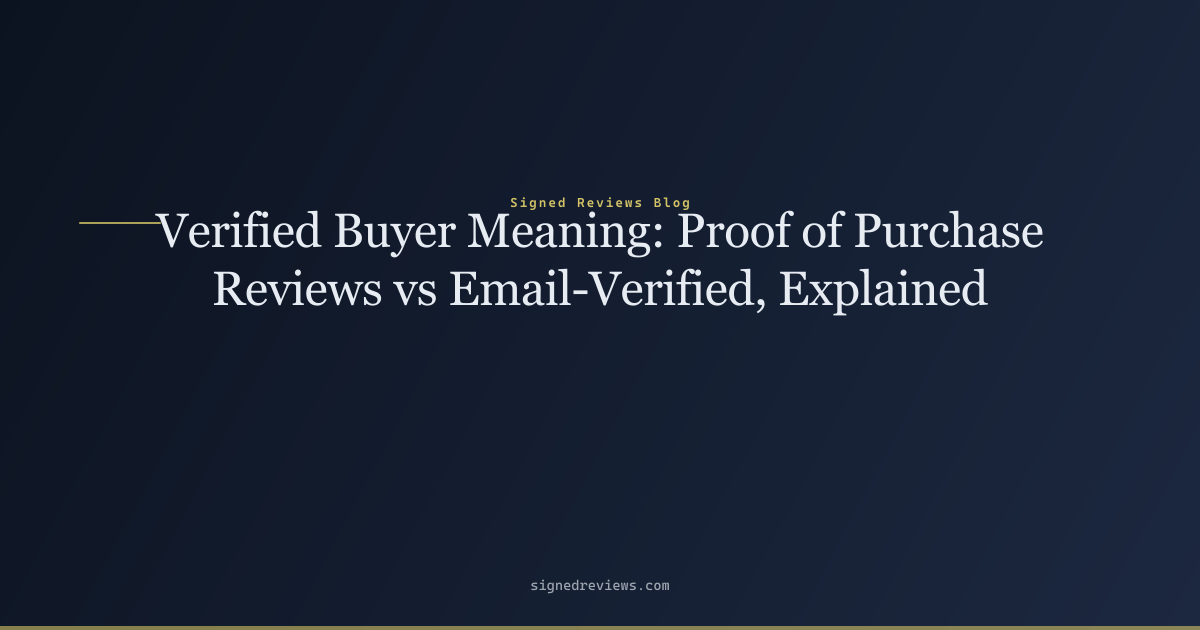
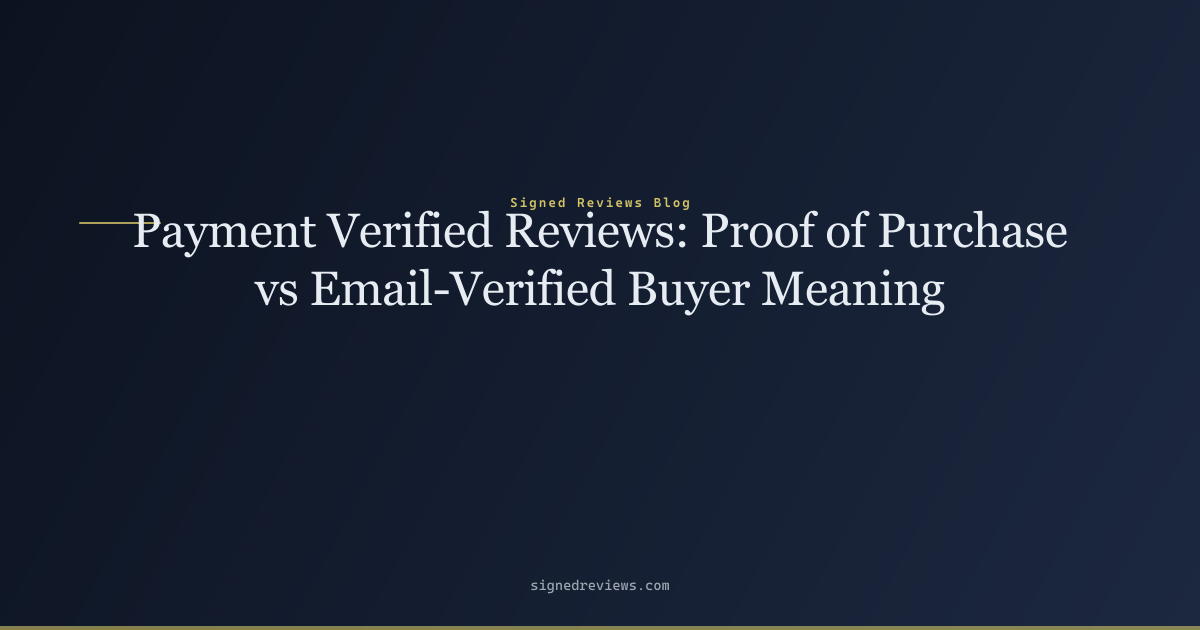
@ SEO: target "payment verified reviews" in title, H2, body, and internal links
- Title: "Payment Verified Reviews: Proof of Purchase vs Email-Verified Buyer Meaning"
- Meta description: leads with "What are payment verified reviews?" (keyword 2x)
- H2: "Payment verified reviews (processor-attested proof of purchase)"
- New H3: "What are payment verified reviews?" with definition + internal links
- Body: keyword in intro (2x), definition section, and bottom line
- Internal links: /blog/transaction-verified-reviews/ + /blog/stripe-verified-reviews/

@

Changed region(s): [[0.0925, 0.3317, 0.8942, 0.5127]]

diff --git a/blog/purchase-verified-vs-email-verified-reviews/index.html b/blog/purchase-verified-vs-email-verified-reviews/index.html
@@ -3,21 +3,21 @@
 <head>
   <meta charset="UTF-8">
   <meta name="viewport" content="width=device-width, initial-scale=1.0">
-  <title>Verified Buyer Meaning: Proof of Purchase Reviews vs Email-Verified, Explained — Signed Reviews Blog</title>
-  <meta name="description" content="What does verified buyer actually mean? Learn the real verified buyer meaning — from email-verified to processor-attested proof of purchase reviews — and how to">
+  <title>Payment Verified Reviews: Proof of Purchase vs Email-Verified Buyer Meaning — Signed Reviews Blog</title>
+  <meta name="description" content="What are payment verified reviews? Learn how processor-attested proof of purchase reviews work, how they differ from email-verified badges, and why payment veri">
   <link rel="canonical" href="https://signedreviews.com/blog/purchase-verified-vs-email-verified-reviews/">
   <meta name="robots" content="index, follow">
   <meta name="theme-color" content="#0c1320">
 
   <meta property="og:type" content="article">
-  <meta property="og:title" content="Verified Buyer Meaning: Proof of Purchase Reviews vs Email-Verified, Explained — Signed Reviews Blog">
-  <meta property="og:description" content="What does verified buyer actually mean? Learn the real verified buyer meaning — from email-verified to processor-attested proof of purchase reviews — and how to">
+  <meta property="og:title" content="Payment Verified Reviews: Proof of Purchase vs Email-Verified Buyer Meaning — Signed Reviews Blog">
+  <meta property="og:description" content="What are payment verified reviews? Learn how processor-attested proof of purchase reviews work, how they differ from email-verified badges, and why payment veri">
   <meta property="og:url" content="https://signedreviews.com/blog/purchase-verified-vs-email-verified-reviews/">
   <meta property="og:site_name" content="Signed Reviews">
   <meta property="og:image" content="https://signedreviews.com/images/og/purchase-verified-vs-email-verified-reviews.png">
   <meta name="twitter:card" content="summary_large_image">
-  <meta name="twitter:title" content="Verified Buyer Meaning: Proof of Purchase Reviews vs Email-Verified, Explained — Signed Reviews Blog">
-  <meta name="twitter:description" content="What does verified buyer actually mean? Learn the real verified buyer meaning — from email-verified to processor-attested proof of purchase reviews — and how to">
+  <meta name="twitter:title" content="Payment Verified Reviews: Proof of Purchase vs Email-Verified Buyer Meaning — Signed Reviews Blog">
+  <meta name="twitter:description" content="What are payment verified reviews? Learn how processor-attested proof of purchase reviews work, how they differ from email-verified badges, and why payment veri">
   <meta name="twitter:image" content="https://signedreviews.com/images/og/purchase-verified-vs-email-verified-reviews.png">
 
   <link rel="icon" type="image/png" sizes="32x32" href="/images/SignedReviews_logo_only.png?v=20260729a">
@@ -523,9 +523,9 @@ main { padding: 0; }
     })();
   </script>
   <script type="application/ld+json">{"@context":"https://schema.org","@type":"Organization","name":"Signed Reviews","legalName":"Paid Rightly LLC","url":"https://signedreviews.com","logo":"https://signedreviews.com/images/SignedReviews_logo_only.png","description":"Signed Reviews is a SaaS platform that helps businesses collect verified, tamper-evident customer reviews by linking each review to a completed Stripe transaction.","email":"support@signedreviews.com","address":{"@type":"PostalAddress","streetAddress":"1209 Mountain Road Pl NE, Ste N","addressLocality":"Albuquerque","addressRegion":"NM","postalCode":"87110","addressCountry":"US"}}</script>
-  <script type="application/ld+json">{"@context":"https://schema.org","@type":"BreadcrumbList","itemListElement":[{"@type":"ListItem","position":1,"name":"Home","item":"https://signedreviews.com/"},{"@type":"ListItem","position":2,"name":"Blog","item":"https://signedreviews.com/blog/"},{"@type":"ListItem","position":3,"name":"Verified Buyer Meaning: Proof of Purchase Reviews vs Email-Verified, Explained","item":"https://signedreviews.com/blog/purchase-verified-vs-email-verified-reviews/"}]}</script>
+  <script type="application/ld+json">{"@context":"https://schema.org","@type":"BreadcrumbList","itemListElement":[{"@type":"ListItem","position":1,"name":"Home","item":"https://signedreviews.com/"},{"@type":"ListItem","position":2,"name":"Blog","item":"https://signedreviews.com/blog/"},{"@type":"ListItem","position":3,"name":"Payment Verified Reviews: Proof of Purchase vs Email-Verified Buyer Meaning","item":"https://signedreviews.com/blog/purchase-verified-vs-email-verified-reviews/"}]}</script>
 
-  <script type="application/ld+json">{"@context":"https://schema.org","@type":"BlogPosting","headline":"Verified Buyer Meaning: Proof of Purchase Reviews vs Email-Verified, Explained","description":"What does verified buyer actually mean? Learn the real verified buyer meaning — from email-verified to processor-attested proof of purchase reviews — and how to","datePublished":"2026-07-24","dateModified":"2026-07-24","mainEntityOfPage":{"@type":"WebPage","@id":"https://signedreviews.com/blog/purchase-verified-vs-email-verified-reviews/"},"image":["https://signedreviews.com/images/og/purchase-verified-vs-email-verified-reviews.png"],"author":{"@type":"Organization","name":"Signed Reviews","url":"https://signedreviews.com"},"publisher":{"@type":"Organization","name":"Signed Reviews","logo":{"@type":"ImageObject","url":"https://signedreviews.com/images/SignedReviews_logo_only.png"}}}</script>
+  <script type="application/ld+json">{"@context":"https://schema.org","@type":"BlogPosting","headline":"Payment Verified Reviews: Proof of Purchase vs Email-Verified Buyer Meaning","description":"What are payment verified reviews? Learn how processor-attested proof of purchase reviews work, how they differ from email-verified badges, and why payment veri","datePublished":"2026-07-24","dateModified":"2026-07-24","mainEntityOfPage":{"@type":"WebPage","@id":"https://signedreviews.com/blog/purchase-verified-vs-email-verified-reviews/"},"image":["https://signedreviews.com/images/og/purchase-verified-vs-email-verified-reviews.png"],"author":{"@type":"Organization","name":"Signed Reviews","url":"https://signedreviews.com"},"publisher":{"@type":"Organization","name":"Signed Reviews","logo":{"@type":"ImageObject","url":"https://signedreviews.com/images/SignedReviews_logo_only.png"}}}</script>
 </head>
 <body>
   <a class="skip-link" href="#main">Skip to main content</a>
@@ -566,18 +566,18 @@ main { padding: 0; }
     <section class="page-hero">
       <div class="page-hero-inner">
         <span class="eyebrow">Blog</span>
-        <h1>Verified Buyer Meaning: Proof of Purchase Reviews vs Email-Verified, Explained</h1>
-        <p>What does verified buyer actually mean? Learn the real verified buyer meaning — from email-verified to processor-attested proof of purchase reviews — and how to</p>
+        <h1>Payment Verified Reviews: Proof of Purchase vs Email-Verified Buyer Meaning</h1>
+        <p>What are payment verified reviews? Learn how processor-attested proof of purchase reviews work, how they differ from email-verified badges, and why payment veri</p>
       </div>
     </section>
     <div class="prose-wrap">
       <article class="prose" style="max-width: var(--max-prose)">
       <p class="post-meta" style="color:var(--muted);font-size:.9rem;margin-bottom:1.5rem;">2026-07-24</p>
       
-<p><strong>Published:</strong> 2026-07-24 · <strong>Author:</strong> Signed Reviews Team · <strong>Description:</strong> What does verified buyer actually mean? Learn the real verified buyer meaning — from email-verified to processor-attested proof of purchase reviews — and how to tell which kind you&#39;re reading.</p>
+<p><strong>Published:</strong> 2026-07-24 · <strong>Author:</strong> Signed Reviews Team · <strong>Description:</strong> What are payment verified reviews? Learn how processor-attested proof of purchase reviews work, how they differ from email-verified badges, and why payment verified reviews stop fake feedback.</p>
 <hr>
-<p>Two reviews. Both say &quot;Verified.&quot; But the verified buyer meaning changes completely depending on who did the verifying. One badge means the platform confirmed the reviewer&#39;s email address exists. The other means an independent payment processor confirmed the reviewer actually paid for the product — these are <strong>proof of purchase reviews</strong>, and they&#39;re structurally impossible to fake. They&#39;re not the same thing — but most review platforms use language that deliberately blurs the distinction.</p>
-<p>Here&#39;s the real verified buyer meaning across every platform — why proof of purchase reviews are structurally harder to fake than email-verified ones, and how to tell which kind you&#39;re reading.</p>
+<p>Two reviews. Both say &quot;Verified.&quot; But the verified buyer meaning changes completely depending on who did the verifying. One badge means the platform confirmed the reviewer&#39;s email address exists. The other means an independent payment processor confirmed the reviewer actually paid for the product — these are <strong>payment verified reviews</strong>, and they&#39;re structurally impossible to fake. They&#39;re not the same thing — but most review platforms use language that deliberately blurs the distinction.</p>
+<p>Here&#39;s the real verified buyer meaning across every platform — why <strong>payment verified reviews</strong> are structurally harder to fake than email-verified ones, and how to tell which kind you&#39;re reading.</p>
 <hr>
 <h2 id="email-verified-reviews"><a class="anchor" href="#email-verified-reviews" aria-label="Permalink to Email-verified reviews">#</a> Email-verified reviews</h2>
 <p><strong>What it checks:</strong> The reviewer controls the email address they used to sign up.</p>
@@ -591,9 +591,11 @@ main { padding: 0; }
 <p><strong>Where you see it:</strong> Lower-friction platforms, some &quot;verified purchase&quot; tick-boxes that are self-attested, and platforms that don&#39;t integrate with commerce data at all.</p>
 <p><strong>The gap:</strong> Email verification proves the reviewer exists as an email address. It proves nothing about whether they were a customer. Anyone can create a Gmail account in 30 seconds, and email verification alone treats that account as equal to a long-time customer who spent $5,000.</p>
 <hr>
-<h2 id="proof-of-purchase-reviews-processor-attested-verification"><a class="anchor" href="#proof-of-purchase-reviews-processor-attested-verification" aria-label="Permalink to Proof of purchase reviews (processor-attested verification)">#</a> Proof of purchase reviews (processor-attested verification)</h2>
+<h2 id="payment-verified-reviews-processor-attested-proof-of-purchase"><a class="anchor" href="#payment-verified-reviews-processor-attested-proof-of-purchase" aria-label="Permalink to Payment verified reviews (processor-attested proof of purchase)">#</a> Payment verified reviews (processor-attested proof of purchase)</h2>
 <p><strong>What it checks:</strong> That a purchase actually occurred — but <strong>who confirms it</strong> is the critical variable.</p>
 <p>There are two kinds of purchase verification, and they sit at completely different levels on the verification spectrum:</p>
+<h3 id="what-are-payment-verified-reviews"><a class="anchor" href="#what-are-payment-verified-reviews" aria-label="Permalink to What are payment verified reviews?">#</a> What are payment verified reviews?</h3>
+<p>Payment verified reviews are reviews tied to an independently confirmed payment — a real Stripe charge, verified by the payment processor itself rather than by the merchant&#39;s own order records. Unlike email-verified badges (which only confirm an email address exists) or merchant-supplied verification (which trusts data the business controls), payment verified reviews use the payment processor as a neutral third-party attestation source. This makes them structurally impossible to fake without incurring real Stripe fees and account-closure risk. For a complete technical breakdown, see our guide on <a href="/blog/transaction-verified-reviews/">transaction-verified reviews</a> and how <a href="/blog/stripe-verified-reviews/">Stripe verified reviews</a> make this possible.</p>
 <h3 id="level-3-merchant-supplied-purchase-verification"><a class="anchor" href="#level-3-merchant-supplied-purchase-verification" aria-label="Permalink to Level 3: Merchant-supplied purchase verification">#</a> Level 3: Merchant-supplied purchase verification</h3>
 <p>The review platform checks the reviewer against <strong>the merchant&#39;s own order or customer records.</strong> This is what most &quot;Verified Buyer&quot; badges mean — on Yotpo, Judge.me, Reviews.io, and almost every Shopify review app.</p>
 <p><strong>How it works:</strong></p>
@@ -669,7 +671,7 @@ main { padding: 0; }
 </ol>
 <hr>
 <h2 id="the-bottom-line"><a class="anchor" href="#the-bottom-line" aria-label="Permalink to The bottom line">#</a> The bottom line</h2>
-<p>&quot;Verified&quot; is a magic word in e-commerce — it increases trust, improves conversion, and signals credibility. But the verified buyer meaning is doing too much work. It can mean &quot;has an email address,&quot; &quot;matched a merchant&#39;s order record,&quot; or &quot;independently confirmed by a payment processor.&quot; Proof of purchase reviews sit at the top of this hierarchy — and consumers can&#39;t easily tell which kind they&#39;re looking at.</p>
+<p>&quot;Verified&quot; is a magic word in e-commerce — it increases trust, improves conversion, and signals credibility. But the verified buyer meaning is doing too much work. It can mean &quot;has an email address,&quot; &quot;matched a merchant&#39;s order record,&quot; or &quot;independently confirmed by a payment processor.&quot; <strong>Payment verified reviews</strong> sit at the top of this hierarchy — backed by processor-attested proof of purchase — and consumers can&#39;t easily tell which kind they&#39;re looking at.</p>
 <p>As a business, the verification level you choose is a strategic decision about what kind of trust you want to build with your customers. Email-verified says &quot;we made it slightly harder to spam.&quot; Purchase-verified (merchant-supplied) says &quot;we checked our own records.&quot; Processor-attested says <strong>&quot;an independent party verified this — and we can&#39;t fake it.&quot;</strong></p>
 <p>The right choice depends on your business. But if you process payments through Stripe, you have access to the strongest verification level available — and your competitors probably aren&#39;t using it yet.</p>
 <p><strong>Further reading:</strong></p>

diff --git a/blog/index.html b/blog/index.html
@@ -623,9 +623,9 @@ main { padding: 0; }
       <p style="margin:0;color:var(--text);font-size:.95rem;">Looking for a review app for stripe payments? Compare Stripe-native apps, platform integrations, and API-first tools — ranked by verification strength. Covers t</p>
     </div>
     <div style="margin-bottom:1.5rem;padding-bottom:1.5rem;border-bottom:1px solid var(--border);">
-      <h2 style="margin:0 0 .3rem;font-size:1.25rem;"><a href="/blog/purchase-verified-vs-email-verified-reviews/" style="text-decoration:none;">Verified Buyer Meaning: Proof of Purchase Reviews vs Email-Verified, Explained</a></h2>
+      <h2 style="margin:0 0 .3rem;font-size:1.25rem;"><a href="/blog/purchase-verified-vs-email-verified-reviews/" style="text-decoration:none;">Payment Verified Reviews: Proof of Purchase vs Email-Verified Buyer Meaning</a></h2>
       <p class="post-meta" style="color:var(--muted);font-size:.85rem;margin:0 0 .4rem;">2026-07-24</p>
-      <p style="margin:0;color:var(--text);font-size:.95rem;">What does verified buyer actually mean? Learn the real verified buyer meaning — from email-verified to processor-attested proof of purchase reviews — and how to</p>
+      <p style="margin:0;color:var(--text);font-size:.95rem;">What are payment verified reviews? Learn how processor-attested proof of purchase reviews work, how they differ from email-verified badges, and why payment veri</p>
     </div>
     <div style="margin-bottom:1.5rem;padding-bottom:1.5rem;border-bottom:1px solid var(--border);">
       <h2 style="margin:0 0 .3rem;font-size:1.25rem;"><a href="/blog/post-purchase-review-email-templates/" style="text-decoration:none;">Post Purchase Review Email Template Guide: 5 Templates That Actually Work</a></h2>

diff --git a/files/blog/purchase-verified-vs-email-verified-reviews.md b/files/blog/purchase-verified-vs-email-verified-reviews.md
@@ -1,12 +1,12 @@
-# Verified Buyer Meaning: Proof of Purchase Reviews vs Email-Verified, Explained
+# Payment Verified Reviews: Proof of Purchase vs Email-Verified Buyer Meaning
 
-**Published:** 2026-07-24 · **Author:** Signed Reviews Team · **Description:** What does verified buyer actually mean? Learn the real verified buyer meaning — from email-verified to processor-attested proof of purchase reviews — and how to tell which kind you're reading.
+**Published:** 2026-07-24 · **Author:** Signed Reviews Team · **Description:** What are payment verified reviews? Learn how processor-attested proof of purchase reviews work, how they differ from email-verified badges, and why payment verified reviews stop fake feedback.
 
 ---
 
-Two reviews. Both say "Verified." But the verified buyer meaning changes completely depending on who did the verifying. One badge means the platform confirmed the reviewer's email address exists. The other means an independent payment processor confirmed the reviewer actually paid for the product — these are **proof of purchase reviews**, and they're structurally impossible to fake. They're not the same thing — but most review platforms use language that deliberately blurs the distinction.
+Two reviews. Both say "Verified." But the verified buyer meaning changes completely depending on who did the verifying. One badge means the platform confirmed the reviewer's email address exists. The other means an independent payment processor confirmed the reviewer actually paid for the product — these are **payment verified reviews**, and they're structurally impossible to fake. They're not the same thing — but most review platforms use language that deliberately blurs the distinction.
 
-Here's the real verified buyer meaning across every platform — why proof of purchase reviews are structurally harder to fake than email-verified ones, and how to tell which kind you're reading.
+Here's the real verified buyer meaning across every platform — why **payment verified reviews** are structurally harder to fake than email-verified ones, and how to tell which kind you're reading.
 
 ---
 
@@ -27,11 +27,15 @@ Here's the real verified buyer meaning across every platform — why proof of pu
 
 ---
 
-## Proof of purchase reviews (processor-attested verification)
+## Payment verified reviews (processor-attested proof of purchase)
 
 **What it checks:** That a purchase actually occurred — but **who confirms it** is the critical variable.
 
 There are two kinds of purchase verification, and they sit at completely different levels on the verification spectrum:
+
+### What are payment verified reviews?
+
+Payment verified reviews are reviews tied to an independently confirmed payment — a real Stripe charge, verified by the payment processor itself rather than by the merchant's own order records. Unlike email-verified badges (which only confirm an email address exists) or merchant-supplied verification (which trusts data the business controls), payment verified reviews use the payment processor as a neutral third-party attestation source. This makes them structurally impossible to fake without incurring real Stripe fees and account-closure risk. For a complete technical breakdown, see our guide on [transaction-verified reviews](/blog/transaction-verified-reviews/) and how [Stripe verified reviews](/blog/stripe-verified-reviews/) make this possible.
 
 ### Level 3: Merchant-supplied purchase verification
 
@@ -95,7 +99,7 @@ When you see a "Verified" badge on a review, ask three questions:
 
 ## The bottom line
 
-"Verified" is a magic word in e-commerce — it increases trust, improves conversion, and signals credibility. But the verified buyer meaning is doing too much work. It can mean "has an email address," "matched a merchant's order record," or "independently confirmed by a payment processor." Proof of purchase reviews sit at the top of this hierarchy — and consumers can't easily tell which kind they're looking at.
+"Verified" is a magic word in e-commerce — it increases trust, improves conversion, and signals credibility. But the verified buyer meaning is doing too much work. It can mean "has an email address," "matched a merchant's order record," or "independently confirmed by a payment processor." **Payment verified reviews** sit at the top of this hierarchy — backed by processor-attested proof of purchase — and consumers can't easily tell which kind they're looking at.
 
 As a business, the verification level you choose is a strategic decision about what kind of trust you want to build with your customers. Email-verified says "we made it slightly harder to spam." Purchase-verified (merchant-supplied) says "we checked our own records." Processor-attested says **"an independent party verified this — and we can't fake it."**
 
